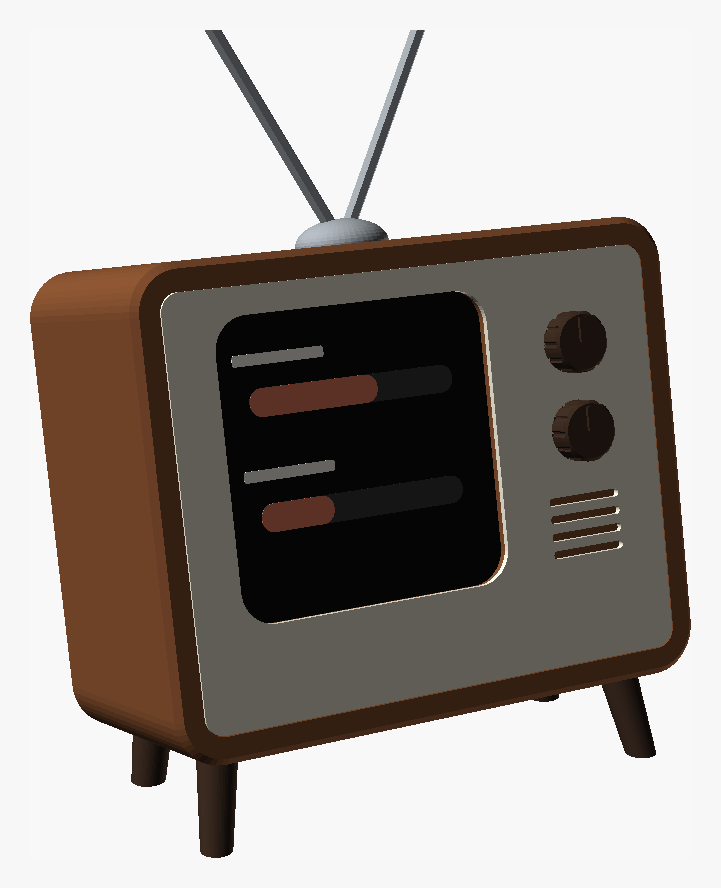
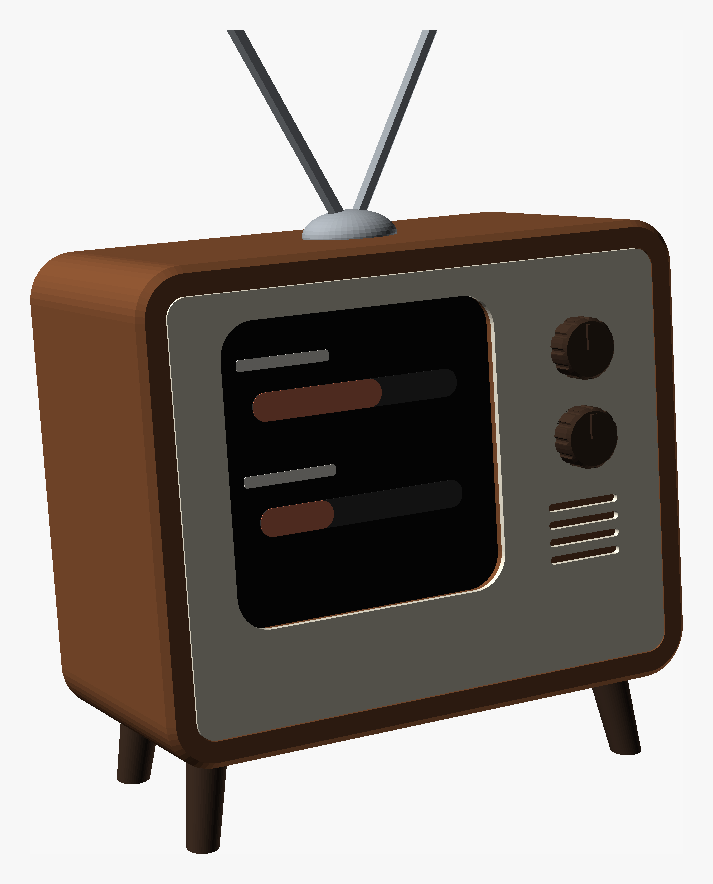
Retro-TV dock: lower tilt to 7 degrees
Claude-Session: https://claude.ai/code/session_01DCgFXNHjuUnVVy5jf825vG

diff --git a/enclosure/retro_tv/README.md b/enclosure/retro_tv/README.md
@@ -3,7 +3,7 @@
 A small 60s-style television for the Clawdmeter. The screen sits on the
 left behind a rounded TV window. On the right is a control panel with two
 knobs and a speaker grille. Splayed legs (the rear ones are shorter) lean
-the screen back 12°, and there are rabbit-ear antennas on top. The
+the screen back 7°, and there are rabbit-ear antennas on top. The
 right-angle USB-C plug stays hidden inside, and the cable leaves through a
 notch low on the right side near the back.
 
@@ -58,5 +58,5 @@ cream and dark-brown PLA all exist, so no painting is needed.
    out through the notch.
 5. Press the back cover on, then press in the legs and the antenna dome.
 
-The 12° tilt is set by `tilt` (and `leg_len`). The IMU auto-rotation still
+The 7° tilt is set by `tilt` (and `leg_len`). The IMU auto-rotation still
 reads the screen as upright.
